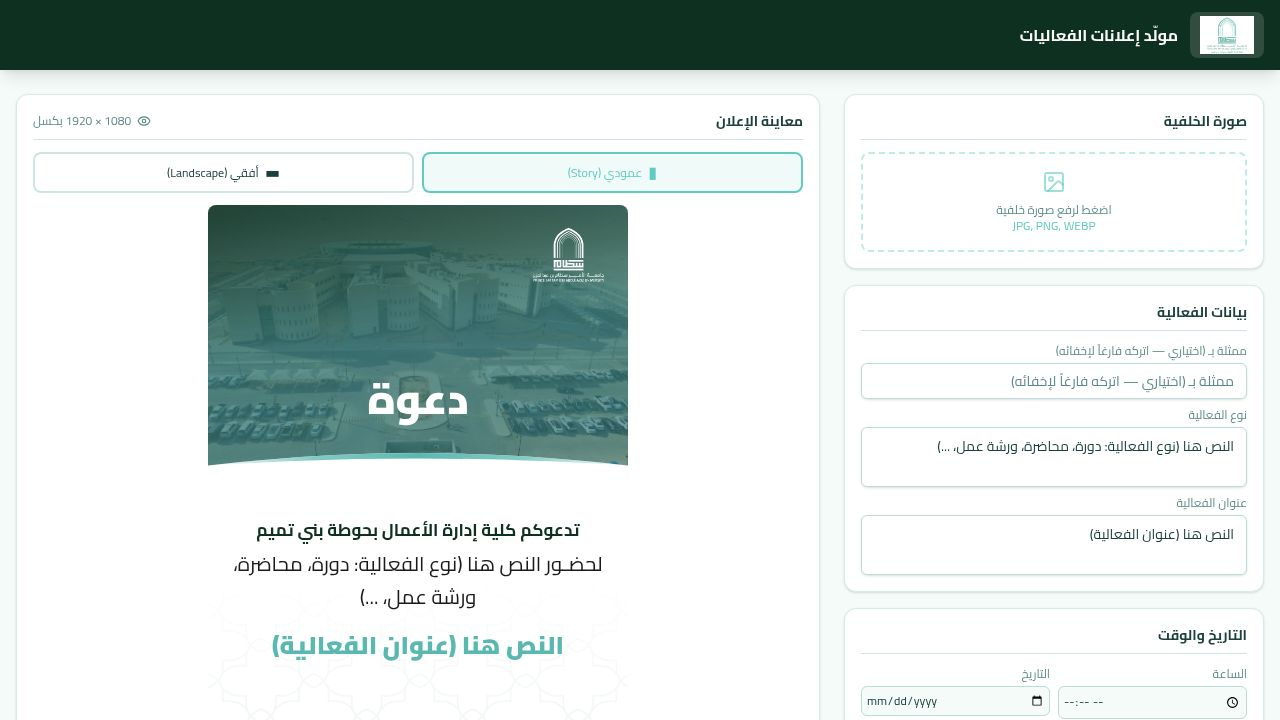
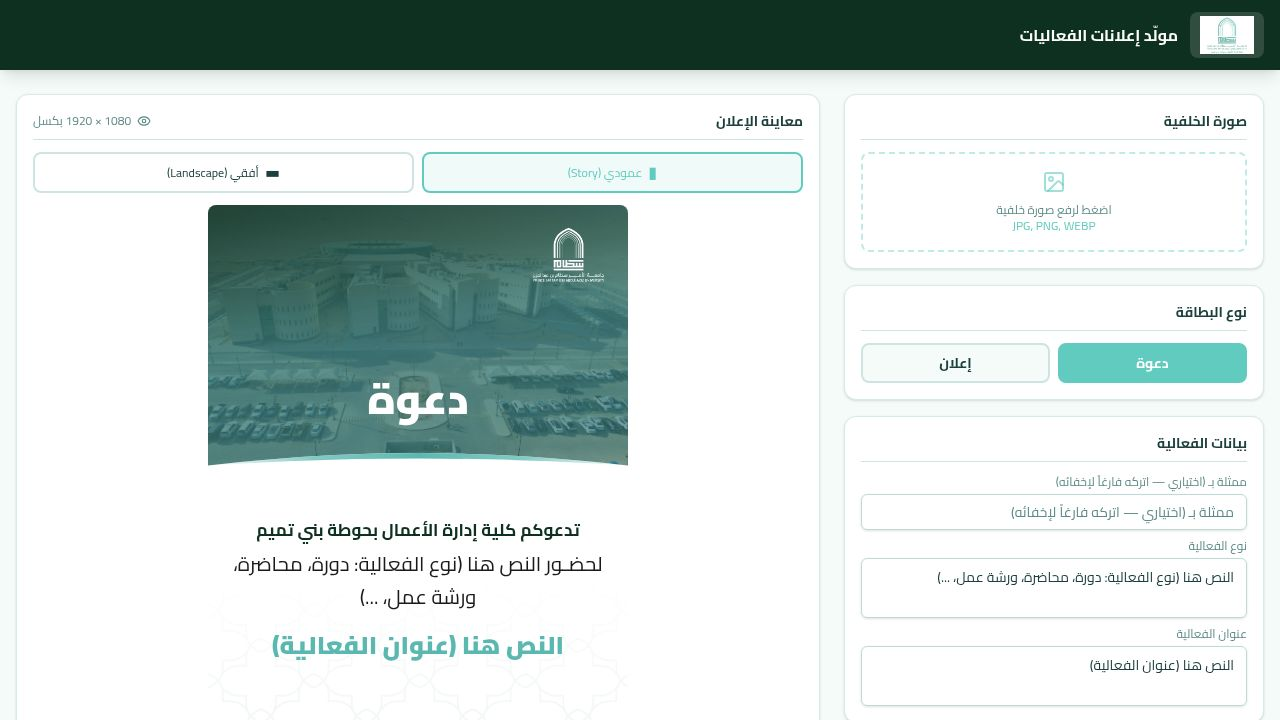
Add PDF export functionality and change default format to JPEG
Integrates jsPDF to allow exporting ads as PDFs, replaces WebP export with PDF, and sets JPEG as the default export format. Modifies the `ExportFormat` type, `FORMAT_OPTIONS`, and the export function to handle the new PDF format and update the download button label accordingly. Includes dependency updates in `package.json` and `pnpm-lock.yaml`.

Replit-Commit-Author: Agent
Replit-Commit-Session-Id: ddc0945b-ef1c-409e-8434-9f28f4acb59c
Replit-Commit-Checkpoint-Type: full_checkpoint
Replit-Commit-Event-Id: 90c1a9e9-a267-42d2-95dc-ccd754f156cf
Replit-Commit-Screenshot-Url: https://storage.googleapis.com/screenshot-production-us-central1/518b3086-2158-4eb5-bfa4-b797410b05bc/ddc0945b-ef1c-409e-8434-9f28f4acb59c/A90Jv6I
Replit-Helium-Checkpoint-Created: true

diff --git a/artifacts/ad-generator/src/pages/AdGenerator.tsx b/artifacts/ad-generator/src/pages/AdGenerator.tsx
@@ -1,6 +1,7 @@
 import { useState, useRef, useCallback, useId, useEffect, type PointerEvent } from "react";
 import QRCodeLib from "qrcode";
 import html2canvas from "html2canvas";
+import { jsPDF } from "jspdf";
 import defaultBg from "@assets/DJI_0449_1776326627177.jpg";
 import logoImg from "@assets/تصميم_بدون_عنوان_1776144448792.png";
 import logoTeams from "@assets/image10.png";
@@ -41,7 +42,7 @@ const DEFAULT_DATA: EventAdData = {
   adMode: "invitation",
 };
 
-type ExportFormat = "webp" | "png" | "jpeg";
+type ExportFormat = "pdf" | "png" | "jpeg";
 
 interface FormatOption {
   id: ExportFormat;
@@ -53,11 +54,11 @@ interface FormatOption {
 }
 
 const FORMAT_OPTIONS: FormatOption[] = [
-  { id: "webp", mime: "image/webp", ext: "webp", label: "WebP", quality: 0.95,
-    hint: "أفضل جودة وأصغر حجم — موصى به" },
-  { id: "png",  mime: "image/png",  ext: "png",  label: "PNG",  quality: 1,
+  { id: "pdf",  mime: "application/pdf", ext: "pdf",  label: "PDF",  quality: 1,
+    hint: "ملف PDF جاهز للطباعة" },
+  { id: "png",  mime: "image/png",       ext: "png",  label: "PNG",  quality: 1,
     hint: "جودة لا تُفقد — حجم أكبر" },
-  { id: "jpeg", mime: "image/jpeg", ext: "jpg",  label: "JPEG", quality: 0.92,
+  { id: "jpeg", mime: "image/jpeg",      ext: "jpg",  label: "JPEG", quality: 0.92,
     hint: "أصغر حجم — مناسب للمشاركة السريعة" },
 ];
 
@@ -205,7 +206,7 @@ const ImagePanControl = ({
 
 export default function AdGenerator() {
   const [data, setData] = useState<EventAdData>({ ...DEFAULT_DATA });
-  const [exportFormat, setExportFormat] = useState<ExportFormat>("webp");
+  const [exportFormat, setExportFormat] = useState<ExportFormat>("jpeg");
   const [isExporting, setIsExporting] = useState(false);
 
   /* Raw picker values (internal) */
@@ -305,10 +306,25 @@ export default function AdGenerator() {
         imageTimeout: 20000,
       });
       el.style.visibility = "hidden";
-      const link = document.createElement("a");
-      link.download = `إعلان-فعالية.${fmt.ext}`;
-      link.href = canvas.toDataURL(fmt.mime, fmt.quality);
-      link.click();
+
+      if (fmt.id === "pdf") {
+        /* Portrait: width < height → jsPDF portrait; Landscape: width > height → jsPDF landscape */
+        const isLandscape = activeW > activeH;
+        const pdf = new jsPDF({
+          orientation: isLandscape ? "landscape" : "portrait",
+          unit: "px",
+          format: [activeW, activeH],
+          hotfixes: ["px_scaling"],
+        });
+        const imgData = canvas.toDataURL("image/jpeg", 0.95);
+        pdf.addImage(imgData, "JPEG", 0, 0, activeW, activeH);
+        pdf.save("إعلان-فعالية.pdf");
+      } else {
+        const link = document.createElement("a");
+        link.download = `إعلان-فعالية.${fmt.ext}`;
+        link.href = canvas.toDataURL(fmt.mime, fmt.quality);
+        link.click();
+      }
     } catch (err) {
       console.error(err);
       if (exportRef.current) exportRef.current.style.visibility = "hidden";
@@ -589,7 +605,7 @@ export default function AdGenerator() {
                 : <Download className="h-4 w-4" />}
               {isExporting
                 ? "جاري التصدير..."
-                : `تحميل الصورة (${FORMAT_OPTIONS.find(f => f.id === exportFormat)?.label})`}
+                : `تحميل ${exportFormat === "pdf" ? "الملف" : "الصورة"} (${FORMAT_OPTIONS.find(f => f.id === exportFormat)?.label})`}
             </Button>
             <Button data-testid="button-reset" variant="outline"
               onClick={() => {